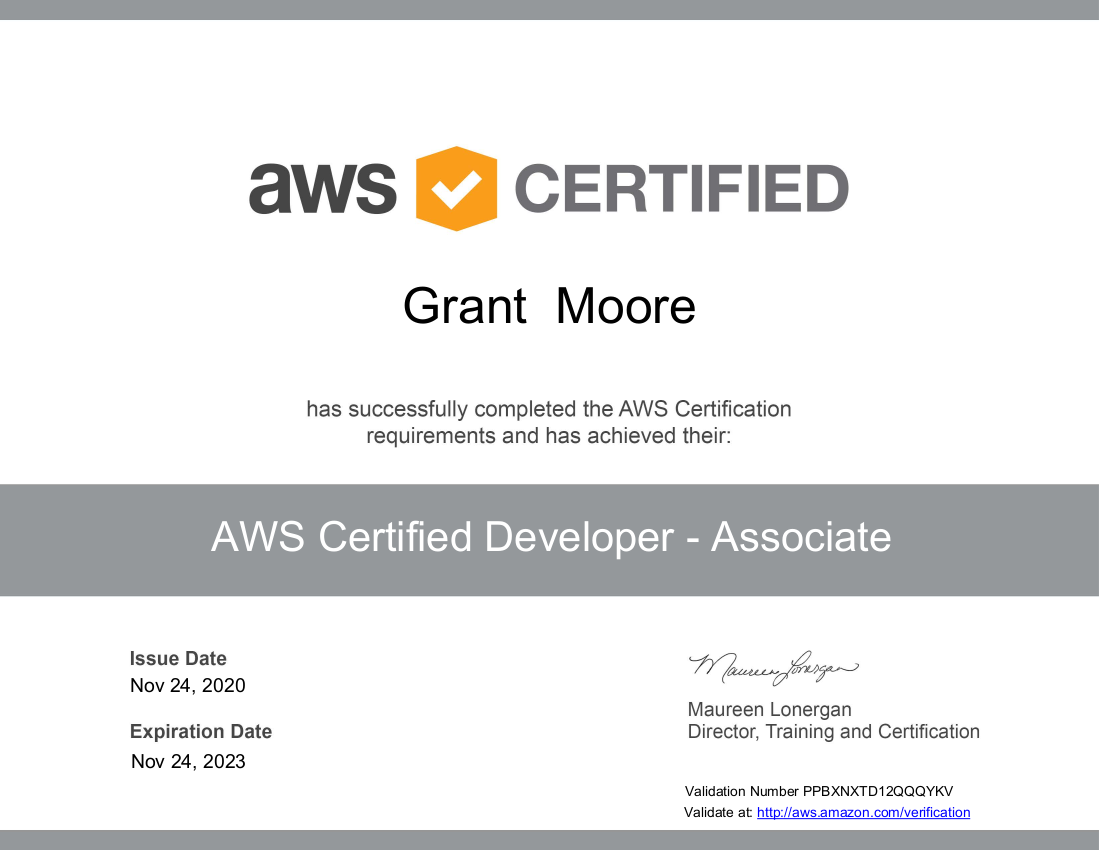
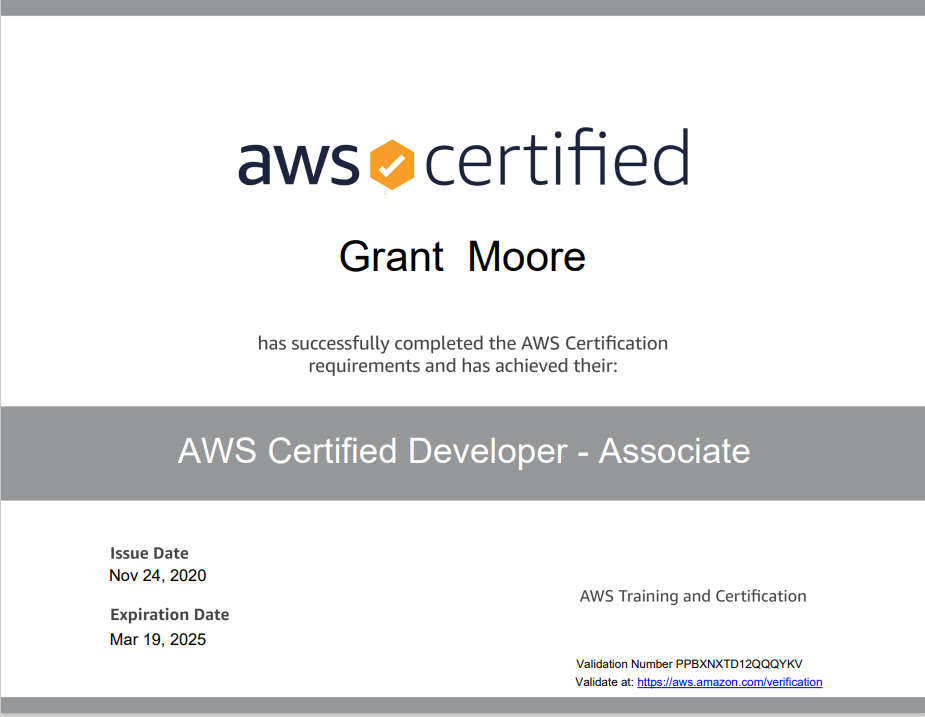
update certs and portfolio

diff --git a/app/src/app/team/members/grant/grant.component.html b/app/src/app/team/members/grant/grant.component.html
@@ -117,7 +117,12 @@
 
   <div id="certifications-popup" class="popup-content" *ngIf="popUpState == states.two">
     <mat-tab-group animationDuration="1000ms" style="height: 100%;">
-      <mat-tab label="AWS Cloud Developer Associate">
+      <mat-tab label="AWS DevOps Engineer Professional">
+        <div class="img-container">
+          <img src="/assets/certs/AWS_DEVOPS.png" alt="AWS DevOps Engineer Professional">
+        </div>
+      </mat-tab>
+      <mat-tab label="AWS Developer Associate">
         <div class="img-container">
           <img src="/assets/certs/AWS_DEVELOPER.png" alt="AWS Developer Associate Certification">
         </div>
@@ -152,8 +157,8 @@
       <mat-tab label="buy.gsa.gov">
         <iframe src="https://buy.gsa.gov/contracts/home" width="100%" height="100%"></iframe>
       </mat-tab>
-      <mat-tab label="innolab.makpar-innovation.net">
-        <iframe src="https://innolab-dev.makpar-innovation.net" width="100%" height="100%"></iframe>
+      <mat-tab label="innolab-coverage.makpar-innovation.net">
+        <iframe src="https://innolab-coverage.makpar-innovation.net" width="100%" height="100%"></iframe>
       </mat-tab>
       <mat-tab label="chinchalinchin.github.io/scrilla">
         <iframe src="https://chinchalinchin.github.io/scrilla/" width="100%" height="100%"></iframe>

diff --git a/app/src/app/design/design.component.ts b/app/src/app/design/design.component.ts
@@ -6,7 +6,6 @@ import { ChipConfig, DESIGN_CHIPS, INFRASTRUCTURE_CHIPS, SOFTWARE_CHIPS, TECHNOL
 enum PopupStates{
   one, two, three, four, null
 };
-
 @Component({
   selector: 'app-design',
   templateUrl: './design.component.html',
